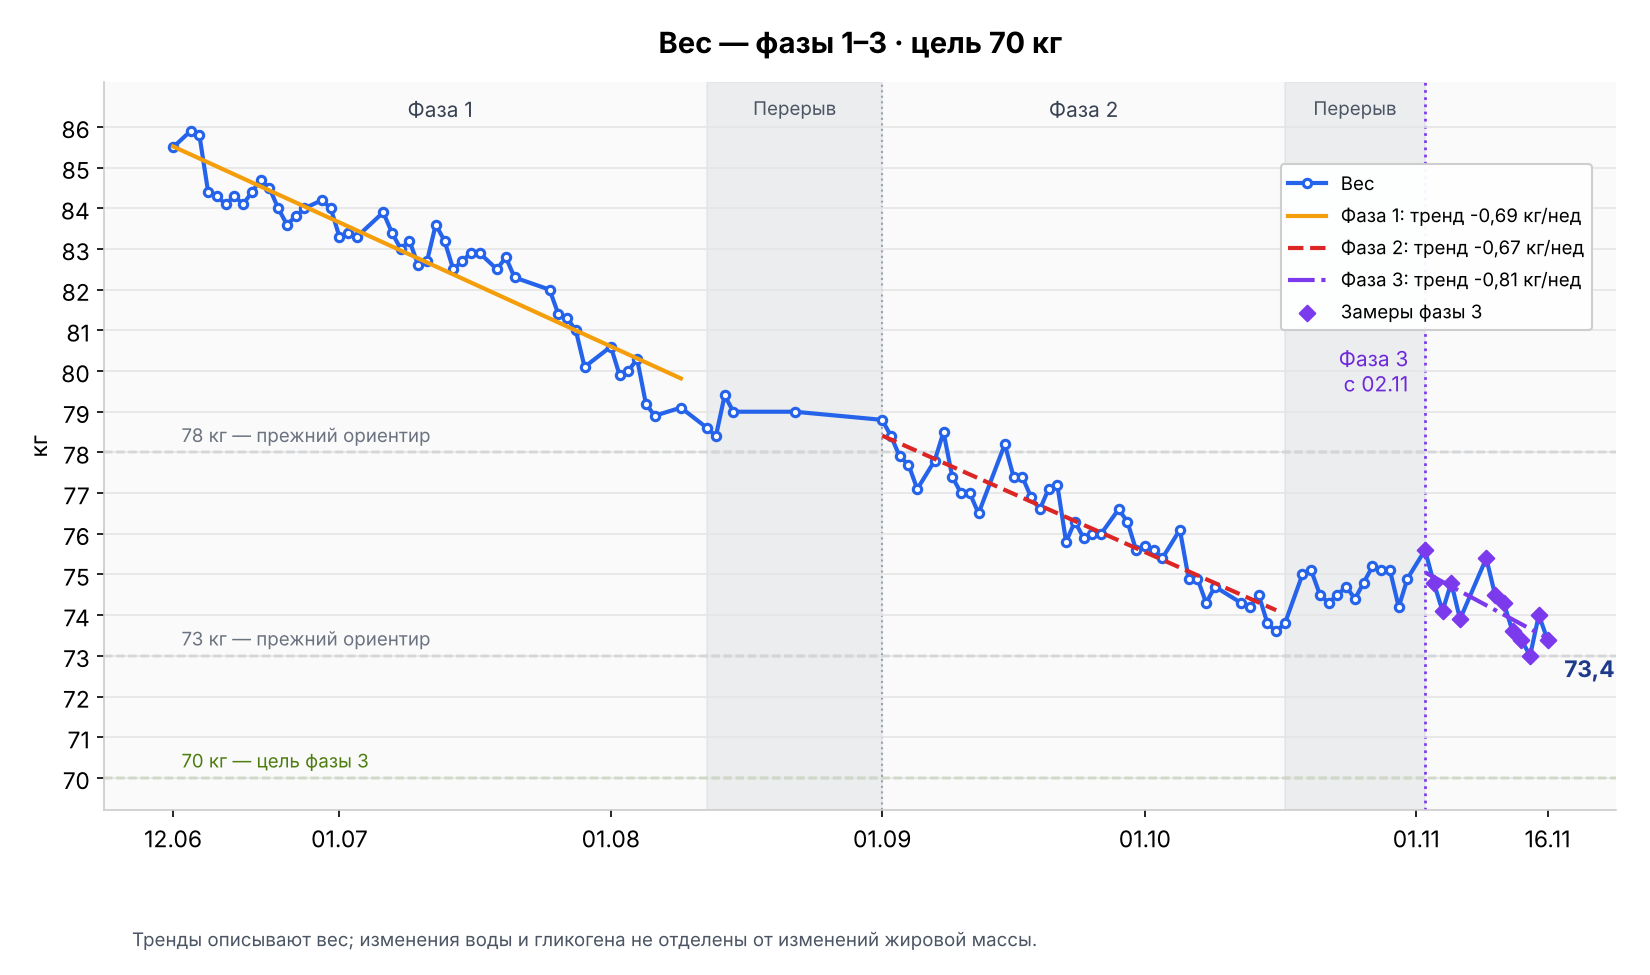
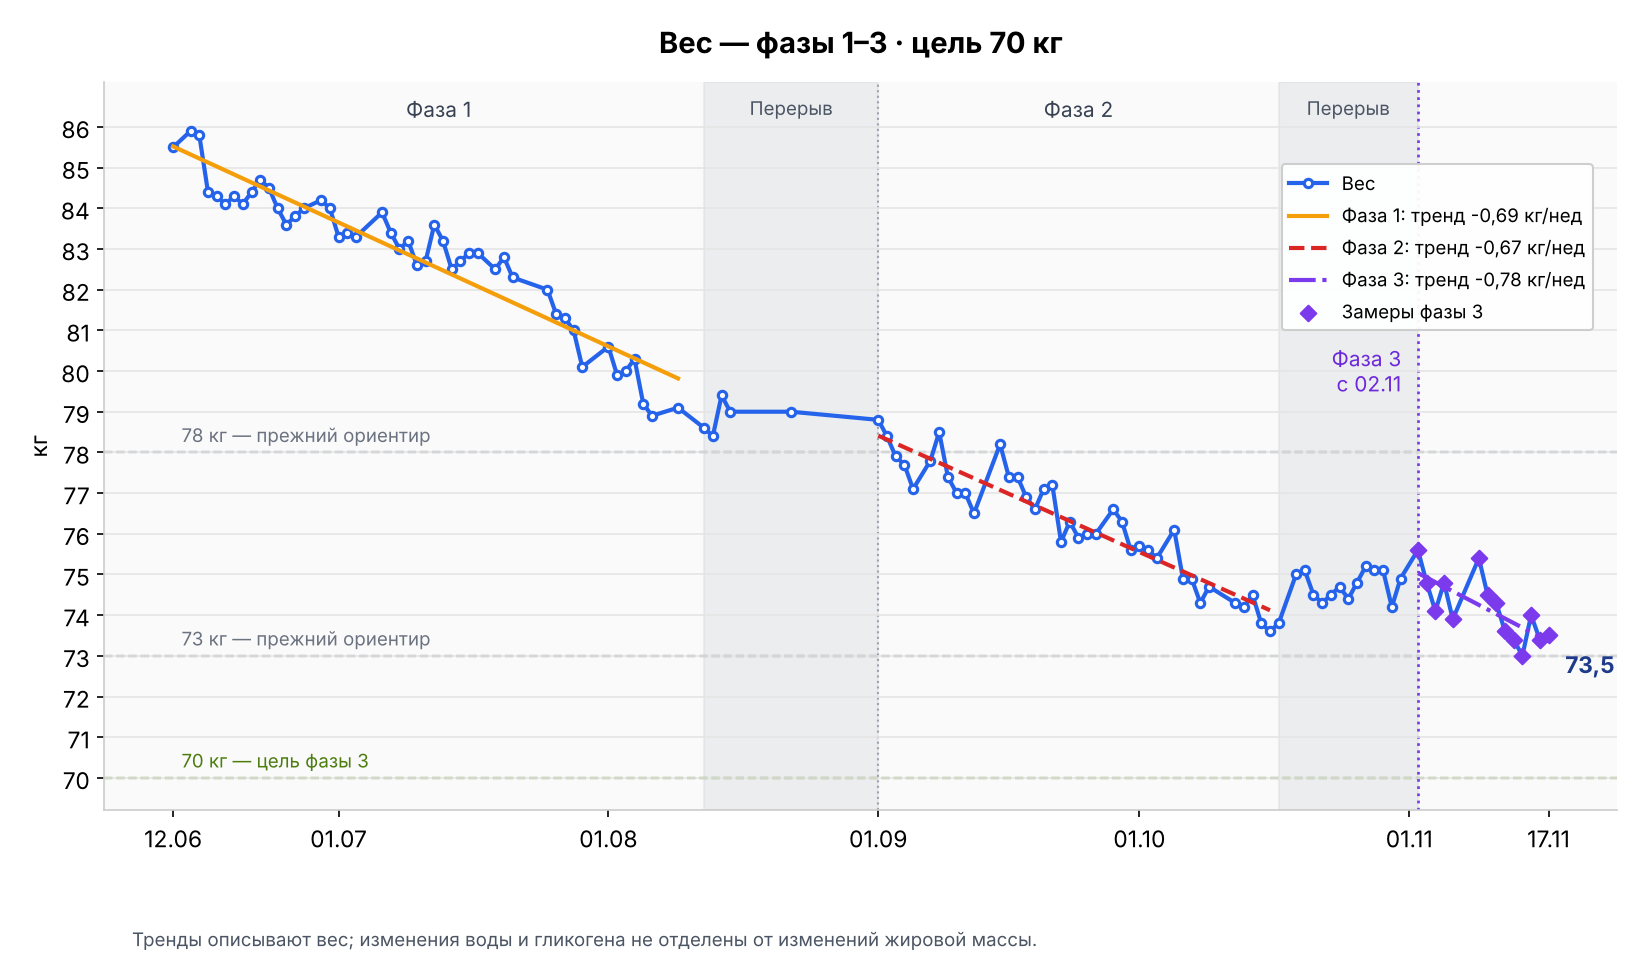
17.11: вес 73,5 кг и завтрак; закрыт день 16.11
Вес +0,1 кг к 16.11 — шум. Завтрак: овощная смесь «Сеул», 3 яйца,
обезжиренный творог, молоко — ~605 ккал / Б 65 г. День 16.11 отмечен
завершённым (~1903 ккал). Графики перестроены.

Claude-Session: https://claude.ai/code/session_01BcPogZpufV1jxrQv9Sbikk

diff --git a/health/журнал-еды.md b/health/журнал-еды.md
@@ -11,7 +11,8 @@
 
 | Дата | Кратко | Ккал | Белок |
 |---|---|---|---|
-| 16.11 (пн) | фаза 3, день 15 · цель 1900 ккал · утром 73,4 · завтрак яблоки 124 г + мексиканская смесь 400 г + курица с прованскими травами 213 г + апельсин 179 г + греческий йогурт 65 г / молоко 1,5% 46 г / поздний завтрак мандарины 235 г + яблоки 298 г + сливы 211 г / ещё молоко 1,5% 98 г / обед мандарины 254 г + рагу из 8 овощей 400 г + апельсин 207 г + курица с прованскими травами 201 г / ужин мандарины 111 г + апельсины 139 г + яблоки 212 г + сливы 212 г / молоко 1,5% 110 г (день идёт) | ~1903＋ | ~135＋ г |
+| 17.11 (вт) | фаза 3, день 16 · цель 1900 ккал · утром 73,5 · завтрак овощная смесь «Сеул» 350 г + варёные яйца 180 г + обезжиренный творог 179 г + молоко 1,5% 105 г (день идёт) | ~605＋ | ~65＋ г |
+| 16.11 (пн) | фаза 3, день 15 · цель 1900 ккал · утром 73,4 · завтрак яблоки 124 г + мексиканская смесь 400 г + курица с прованскими травами 213 г + апельсин 179 г + греческий йогурт 65 г / молоко 1,5% 46 г / поздний завтрак мандарины 235 г + яблоки 298 г + сливы 211 г / ещё молоко 1,5% 98 г / обед мандарины 254 г + рагу из 8 овощей 400 г + апельсин 207 г + курица с прованскими травами 201 г / ужин мандарины 111 г + апельсины 139 г + яблоки 212 г + сливы 212 г / молоко 1,5% 110 г · день завершён, ровно в цель | ~1903 | ~135 г |
 | 15.11 (вс) | фаза 3, день 14 · цель 1900 ккал · день отдыха · утром 74,0 (+1,0 после субботы — соль) · завтрак варёные яйца 180 г + курица с прованскими травами 193 г + голубика 86 г + яблоки 200 г + банан 296 г + греческий йогурт 86 г / ещё банан 159 г / лимонный сок с мякотью 13 г / капучино 330 мл на молоке 3,2% / ужин мексиканская смесь 400 г + лук 47 г + жёлтый перец 169 г + помидоры 342 г + курица с прованскими травами 189 г / помидоры 294 г + греческий йогурт 76 г · день завершён, ~25 ккал до цели | ~1875 | ~149 г |
 | 14.11 (сб) | фаза 3, день 13 · суббота, потолок 2500 ккал · утром 73,0 (минимум плана) · 🏋 зал, грудь + бицепс: жим 82,5×3, брусья 45, слабость · [ВиТ] кофе с сиропом «Попкорн-Карамель» 324 мл / завтрак мандарины 205 г + курица с чесноком 176 г + грудка с лимонным перцем 169 г + яблоки 422 г + голубика 167 г + молоко 1,5% 107 г + варёные яйца 252 г + хрен 18 г / молоко 1,5% 134 г / ужин мандарины 188 г + яблоки 237 г + курица с прованскими травами 189 г / голубика 222 г + яблоки 225 г / молоко 1,5% 249 г / поздний ужин куриные чипсы 39 г + квашеная капуста 256 г + тёртый лимон с имбирём 194 г / ещё квашеная капуста 212 г · день завершён, +135 к субботнему потолку | ~2635 | ~193 г |
 | 13.11 (пт) | фаза 3, день 12 · цель 1900 ккал · утром 73,4 (минимум фазы 3) · завтрак варёные яйца 160 г + варёная грудка 256 г + грейпфрут и дыня 374 г + хрен 20 г / сливки 10% 20 г + ещё 20 г / флэт уайт 250 мл на безлактозном молоке 1,5% / [Делимарше] напиток из черноплодной рябины + куриный бургер по-азиатски + макароны + салат с пастрами + киви / «Ягодный Таро Латте» 275 г / ужин мандарины 200 г + яблоки 244 г + клубника 196 г / молоко 1,5% 102 г · день завершён, +162 ккал к цели (12–13.11 вместе −16) | ~2062＋ | ~161＋ г |
@@ -160,9 +161,26 @@
 
 ---
 
-## 16 ноября (пн) — фаза 3, день 15 · утром 73,4
+## 17 ноября (вт) — фаза 3, день 16 · утром 73,5
 
 День в процессе. **Цель — 1900 ккал** (обычный день). Рабочий ориентир БЖУ: **Б 150 (140–160) / Ж 60 / У 190 г**.
+
+| Приём | Что | Ккал | Б | Ж | У |
+|---|---|---|---|---|---|
+| Завтрак | овощная смесь «Сеул» 350 г (34/100г, Б 1,9 / Ж 0,3 / У 6,1 — данные пользователя) | 119 | 6,7 | 1,1 | 21,4 |
+| | яйца варёные 180 г, 3 шт. (155/100г, Б 12,6 / Ж 10,6 / У 1,1 — прежняя справочная оценка) | ~279 | ~22,7 | ~19,1 | ~2,0 |
+| | творог обезжиренный 179 г (89,7/100г, Б 18 / Ж 0,5 / У 3,3 — данные пользователя от 09.11) | ~161 | 32,2 | 0,9 | 5,9 |
+| | молоко 1,5% 105 г (44,3/100г, Б 3 / Ж 1,5 / У 4,7 — прежние данные пользователя) | ~47 | 3,2 | 1,6 | 4,9 |
+| | *завтрак итого* | *~605* | *~64,7* | *~22,6* | *~34,2* |
+| **Пока за день** | | **~605** | **~64,7** | **~22,6** | **~34,2** |
+
+Заметка: овощная смесь «Сеул» 350 г по КБЖУ пользователя 34/1,9/0,3/6,1 — 119,000 ккал / Б 6,650 / Ж 1,050 / У 21,350 г; яйца варёные 180 г (3 шт.) по прежней оценке 155/12,6/10,6/1,1 — 279,000 / 22,680 / 19,080 / 1,980; творог обезжиренный 179 г по КБЖУ от 09.11 89,7/18/0,5/3,3 — 160,563 / 32,220 / 0,895 / 5,907; молоко 1,5% 105 г (44,3/3/1,5/4,7) — 46,515 / 3,150 / 1,575 / 4,935. Завтрак всего 605,078 ккал / Б 64,700 / Ж 22,600 / У 34,172 г. До цели 1900 ккал осталось 1294,922 ккал; до белка 140–160 г — 75,300–95,300 г; до Ж 60 — 37,400 г; до У 190 — 155,828 г.
+
+---
+
+## 16 ноября (пн) — фаза 3, день 15 · утром 73,4
+
+День завершён. **Цель — 1900 ккал** (обычный день). Рабочий ориентир БЖУ: **Б 150 (140–160) / Ж 60 / У 190 г**.
 
 | Приём | Что | Ккал | Б | Ж | У |
 |---|---|---|---|---|---|
@@ -189,7 +207,7 @@
 | | сливы 212 г без косточки (46/100г, Б ~0,8 / Ж ~0,3 / У ~9,6) | ~98 | ~1,7 | ~0,6 | ~20,4 |
 | | *ужин итого* | *~299* | *~4,7* | *~2,0* | *~60,7* |
 | Напиток | молоко 1,5% 110 г (44,3/100г, Б 3 / Ж 1,5 / У 4,7 — прежние данные пользователя) | ~49 | 3,3 | 1,7 | 5,2 |
-| **Пока за день** | | **~1903** | **~135,5** | **~21,8** | **~279,9** |
+| **Итого** | | **~1903** | **~135,5** | **~21,8** | **~279,9** |
 
 Заметка: яблоки 124 г (47/0,4/0,4/9,8) — 58,280 ккал / Б 0,496 / Ж 0,496 / У 12,152 г; мексиканская смесь — пользователь написал «как вчера, та же пачка» без массы; принято 400 г, как 15.11, по КБЖУ 55/3,5/0,5/9,5 — 220,000 / 14,000 / 2,000 / 38,000 (уточнить массу при расхождении); курица с прованскими травами 213 г (96,7/19,9/1,9/1) — 205,971 / 42,387 / 4,047 / 2,130; апельсин 179 г (43/0,9/0,2/8,1) — 76,970 / 1,611 / 0,358 / 14,499; греческий йогурт 65 г (66,8/8/2/4,2) — 43,420 / 5,200 / 1,300 / 2,730. Завтрак всего 604,641 ккал / Б 63,694 / Ж 8,201 / У 69,511 г. До цели 1900 ккал осталось 1295,359 ккал; до белка 140–160 г — 76,306–96,306 г; до Ж 60 — 51,799 г; до У 190 — 120,489 г. Добавлено молоко 1,5% 46 г по прежним данным 44,3/3/1,5/4,7 — 20,378 ккал / Б 1,380 / Ж 0,690 / У 2,162 г. За день 625,019 ккал / Б 65,074 / Ж 8,891 / У 71,673 г. До цели 1900 ккал осталось 1274,981 ккал; до белка 140–160 г — 74,926–94,926 г; до Ж 60 — 51,109 г; до У 190 — 118,327 г. Поздний завтрак — очищенные фрукты: мандарины 235 г (38/0,8/0,2/7,5) — 89,300 ккал / Б 1,880 / Ж 0,470 / У 17,625 г; яблоки 298 г (47/0,4/0,4/9,8) — 140,060 / 1,192 / 1,192 / 29,204; сливы 211 г без косточки (46 ккал/100 г по прежним записям, БЖУ 0,8/0,3/9,6 — справочная оценка) — 97,060 / 1,688 / 0,633 / 20,256. Вместе 326,420 ккал / Б 4,760 / Ж 2,295 / У 67,085 г. За день 951,439 ккал / Б 69,834 / Ж 11,186 / У 138,758 г. До цели 1900 ккал осталось 948,561 ккал; до белка 140–160 г — 70,166–90,166 г; до Ж 60 — 48,814 г; до У 190 — 51,242 г. Добавлено ещё молоко 1,5% 98 г по прежним данным 44,3/3/1,5/4,7 — 43,414 ккал / Б 2,940 / Ж 1,470 / У 4,606 г. За день 994,853 ккал / Б 72,774 / Ж 12,656 / У 143,364 г. До цели 1900 ккал осталось 905,147 ккал; до белка 140–160 г — 67,226–87,226 г; до Ж 60 — 47,344 г; до У 190 — 46,636 г. Обед: мандарины 254 г (38/0,8/0,2/7,5) — 96,520 ккал / Б 2,032 / Ж 0,508 / У 19,050 г; рагу из 8 овощей 400 г по КБЖУ пользователя 45/2,7/0,2/8,2 — 180,000 / 10,800 / 0,800 / 32,800; апельсин 207 г (43/0,9/0,2/8,1) — 89,010 / 1,863 / 0,414 / 16,767; курица с прованскими травами 201 г (96,7/19,9/1,9/1) — 194,367 / 39,999 / 3,819 / 2,010. Обед всего 559,897 ккал / Б 54,694 / Ж 5,541 / У 70,627 г. За день 1554,750 ккал / Б 127,468 / Ж 18,197 / У 213,991 г. До цели 1900 ккал осталось 345,250 ккал; до белка 140–160 г — 12,532–32,532 г; до Ж 60 — 41,803 г; углеводы выше ориентира 190 г на 23,991 г. Ужин — очищенные фрукты: мандарины 111 г (38/0,8/0,2/7,5) — 42,180 ккал / Б 0,888 / Ж 0,222 / У 8,325 г; апельсины 139 г (43/0,9/0,2/8,1) — 59,770 / 1,251 / 0,278 / 11,259; яблоки 212 г (47/0,4/0,4/9,8) — 99,640 / 0,848 / 0,848 / 20,776; сливы 212 г (46/0,8/0,3/9,6) — 97,520 / 1,696 / 0,636 / 20,352. Ужин всего 299,110 ккал / Б 4,683 / Ж 1,984 / У 60,712 г. За день 1853,860 ккал / Б 132,151 / Ж 20,181 / У 274,703 г. До цели 1900 ккал осталось 46,140 ккал; белка не хватает до диапазона 140–160 г 7,849–27,849 г; до Ж 60 — 39,819 г; углеводы выше ориентира 190 г на 84,703 г. Добавлено молоко 1,5% 110 г по прежним данным 44,3/3/1,5/4,7 — 48,730 ккал / Б 3,300 / Ж 1,650 / У 5,170 г. За день 1902,590 ккал / Б 135,451 / Ж 21,831 / У 279,873 г. Цель 1900 ккал превышена на 2,590 ккал; белка не хватает до диапазона 140–160 г 4,549–24,549 г; до Ж 60 — 38,169 г; углеводы выше ориентира 190 г на 89,873 г.
 

diff --git a/health/журнал-веса.md b/health/журнал-веса.md
@@ -154,6 +154,7 @@
 | 14 ноября | 73,0 кг | сб; **фаза 3, день 13**. −0,4 кг к предыдущему замеру 13.11; новый минимум фазы 3 и всего плана (прежний — 73,4 13.11; до фазы 3 — 73,6 16.10); −2,6 кг от старта фазы 3 (75,6 кг, 02.11); −12,5 кг от стартовой оценки 85,5 кг |
 | 15 ноября | 74,0 кг | вс; **фаза 3, день 14**. +1,0 кг к предыдущему замеру 14.11 после субботы ~2635 ккал: ~468 г квашеной капусты (оценочно 7–9 г соли), куриные чипсы, ~330 г углеводов (гликоген с водой), большой объём еды в ЖКТ, тренировка груди накануне. Жиром быть не может: день ниже поддержания ~2700 ккал. Прошлый такой скачок (09.11, +1,5 после субботы) ушёл за 1–2 дня; −1,6 кг от старта фазы 3; −11,5 кг от стартовой оценки 85,5 кг |
 | 16 ноября | 73,4 кг | пн; **фаза 3, день 15**. −0,6 кг к предыдущему замеру 15.11 — вода после субботы ушла за сутки, как и прогнозировалось (день 15.11 без соли, ~1875 ккал); −2,2 кг от старта фазы 3 (75,6 кг, 02.11); −12,1 кг от стартовой оценки 85,5 кг. Среднее недели 09–15.11 — 74,03 кг (неделя 02–06.11 — 74,64) |
+| 17 ноября | 73,5 кг | вт; **фаза 3, день 16**. +0,1 кг к предыдущему замеру 16.11 — в пределах шума (накануне ~2,1 кг фруктов и ~0,8 кг овощей, ~70 г клетчатки — объём в ЖКТ); −2,1 кг от старта фазы 3 (75,6 кг, 02.11); −12,0 кг от стартовой оценки 85,5 кг |
 | 7 ноября | — | сб; **фаза 3, день 6**. Пользователь забыл взвеситься; замер пропущен |
 
 ### График
